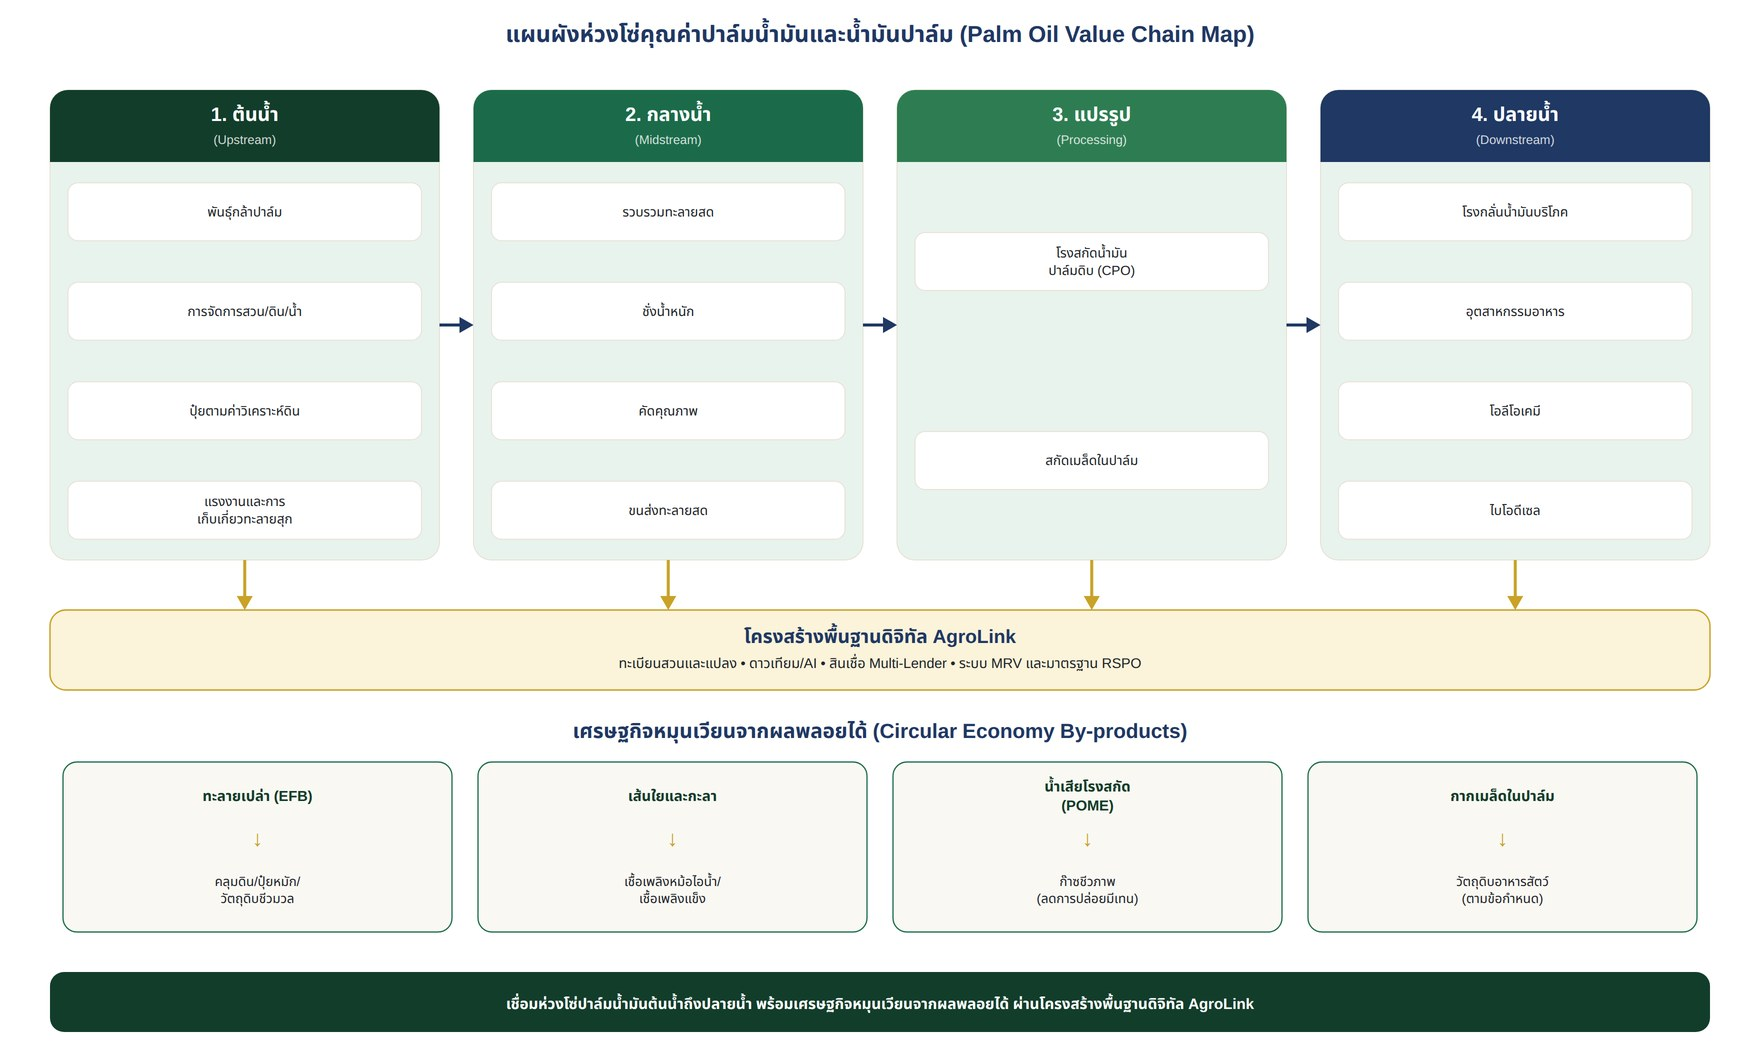
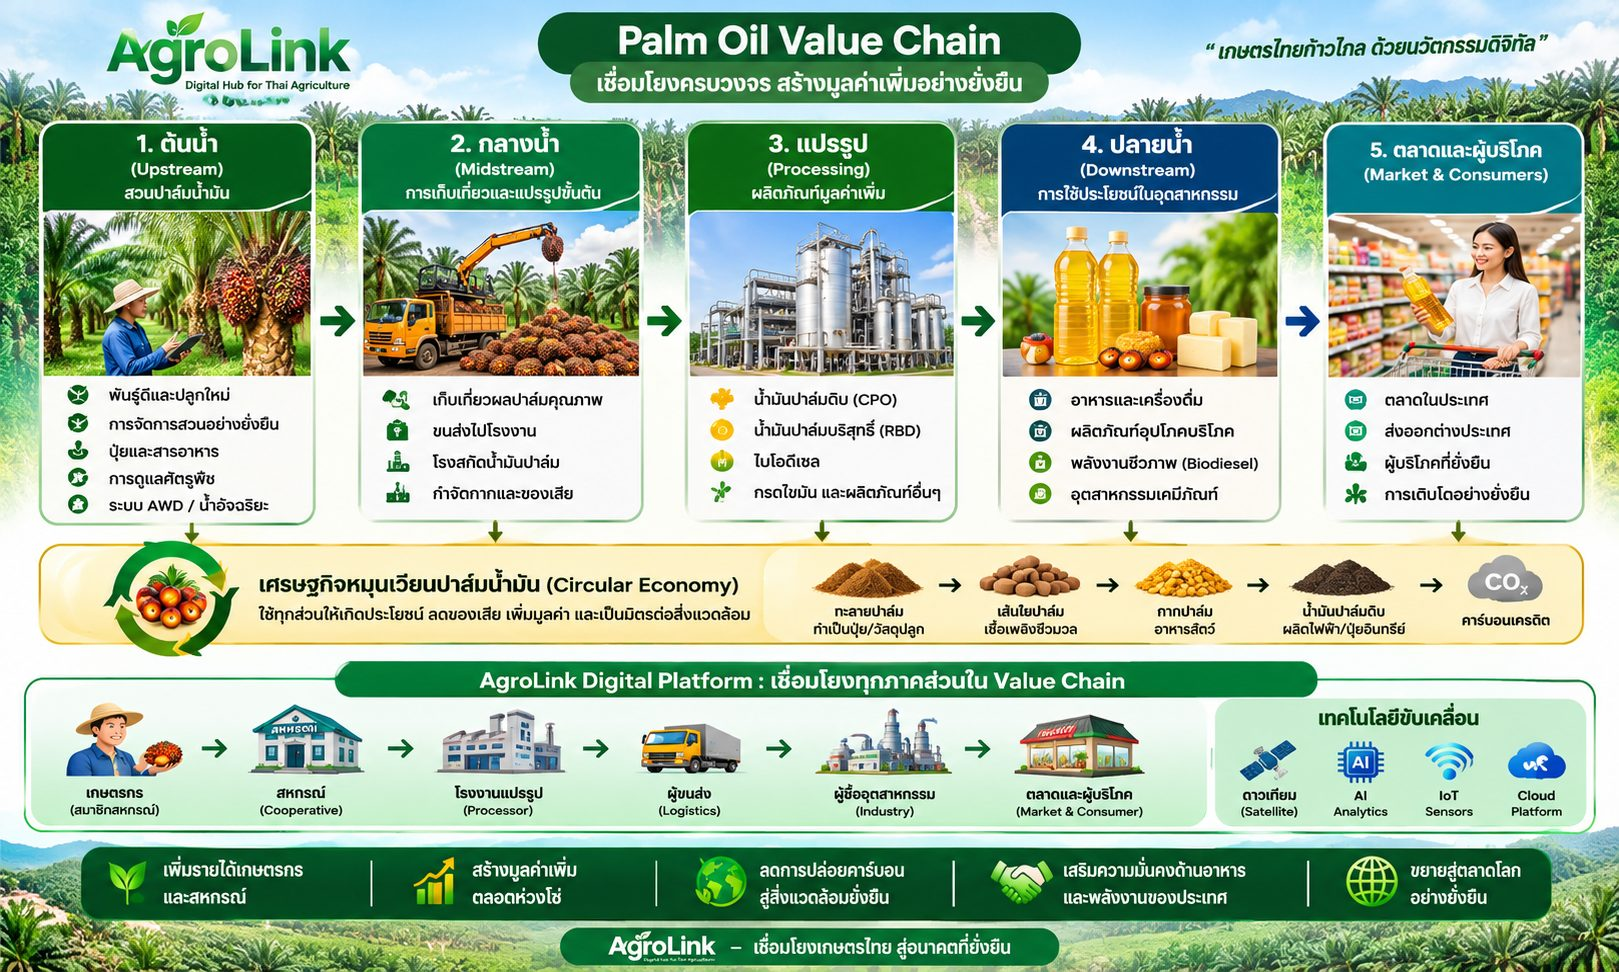
เปลี่ยนภาพ infographic ห่วงโซ่คุณค่าปาล์มน้ำมันเป็นภาพใหม่
- แทน frontend/assets/palmoil-value-chain-infographic.jpg ด้วยภาพใหม่ (1619x972)
- เพิ่ม ?v=2 ที่ src ในหน้า integrated-palmoil-business.html เพื่อไม่ให้เบราว์เซอร์ใช้ภาพเก่าจากแคช

Claude-Session: https://claude.ai/code/session_01DUDEJv5HwkbqERHq6D2vhX

diff --git a/frontend/integrated-palmoil-business.html b/frontend/integrated-palmoil-business.html
@@ -241,7 +241,7 @@
 <section class="infographic-wrap">
   <div class="container">
     <figure class="infographic-figure reveal in">
-      <img src="assets/palmoil-value-chain-infographic.jpg" data-i18n="integrated-palmoil-business_166" data-i18n-attr="alt" alt="แผนที่ห่วงโซ่คุณค่าปาล์มน้ำมันและน้ำมันปาล์ม ต้นน้ำ กลางน้ำ แปรรูป ปลายน้ำ และเศรษฐกิจหมุนเวียน เชื่อมผ่านโครงสร้างพื้นฐานดิจิทัล AgroLink" loading="lazy">
+      <img src="assets/palmoil-value-chain-infographic.jpg?v=2" data-i18n="integrated-palmoil-business_166" data-i18n-attr="alt" alt="แผนที่ห่วงโซ่คุณค่าปาล์มน้ำมันและน้ำมันปาล์ม ต้นน้ำ กลางน้ำ แปรรูป ปลายน้ำ และเศรษฐกิจหมุนเวียน เชื่อมผ่านโครงสร้างพื้นฐานดิจิทัล AgroLink" loading="lazy">
       <figcaption data-i18n="integrated-palmoil-business_167">แผนที่ห่วงโซ่คุณค่าปาล์มน้ำมัน: ต้นน้ำ–กลางน้ำ–แปรรูป–ปลายน้ำ และเศรษฐกิจหมุนเวียนจากผลพลอยได้ เชื่อมโยงด้วยโครงสร้างพื้นฐานดิจิทัล AgroLink</figcaption>
     </figure>
   </div>
